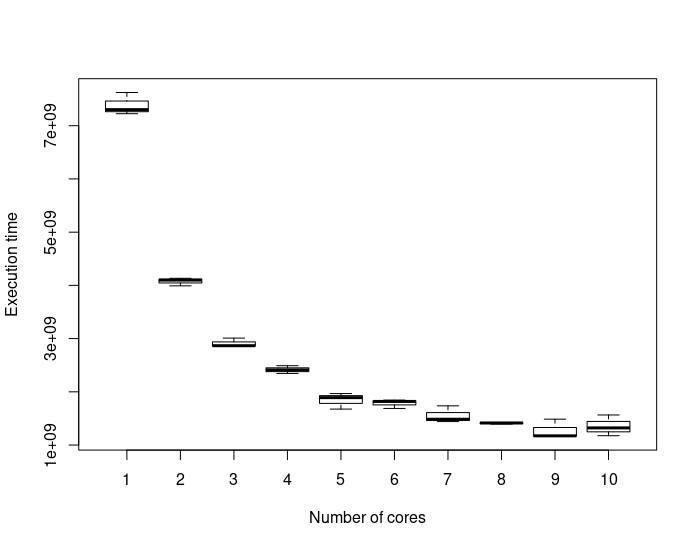
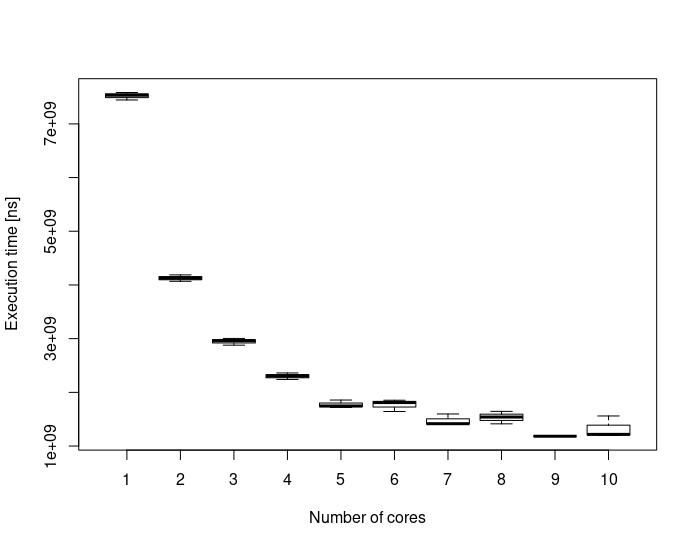
add time unit

diff --git a/README.md b/README.md
@@ -131,7 +131,7 @@ One could also measure this using from 1 up to 10 cores and plot the resulting e
 rf <- function(nc, details) { options("mc.cores" = nc); pervertexdata.smoothnn.adj(details$mesh_adj, details$pvd, details$num_iter); }
 d = list("mesh_adj"=mesh_adj, "pvd"=pvd, "num_iter"=15L);
 mb = microbenchmark::microbenchmark(rf(1,d), rf(2,d), rf(3,d), rf(4,d), rf(5,d), rf(6,d), rf(7,d), rf(8,d), rf(9,d), rf(10,d), times=3L);
-plot(mb, xaxt='n', xlab="Number of cores", ylab = "Execution time");
+plot(mb, xaxt='n', xlab="Number of cores", ylab = "Execution time [ns]");
 axis(1, at = seq(10));
 ```
 
